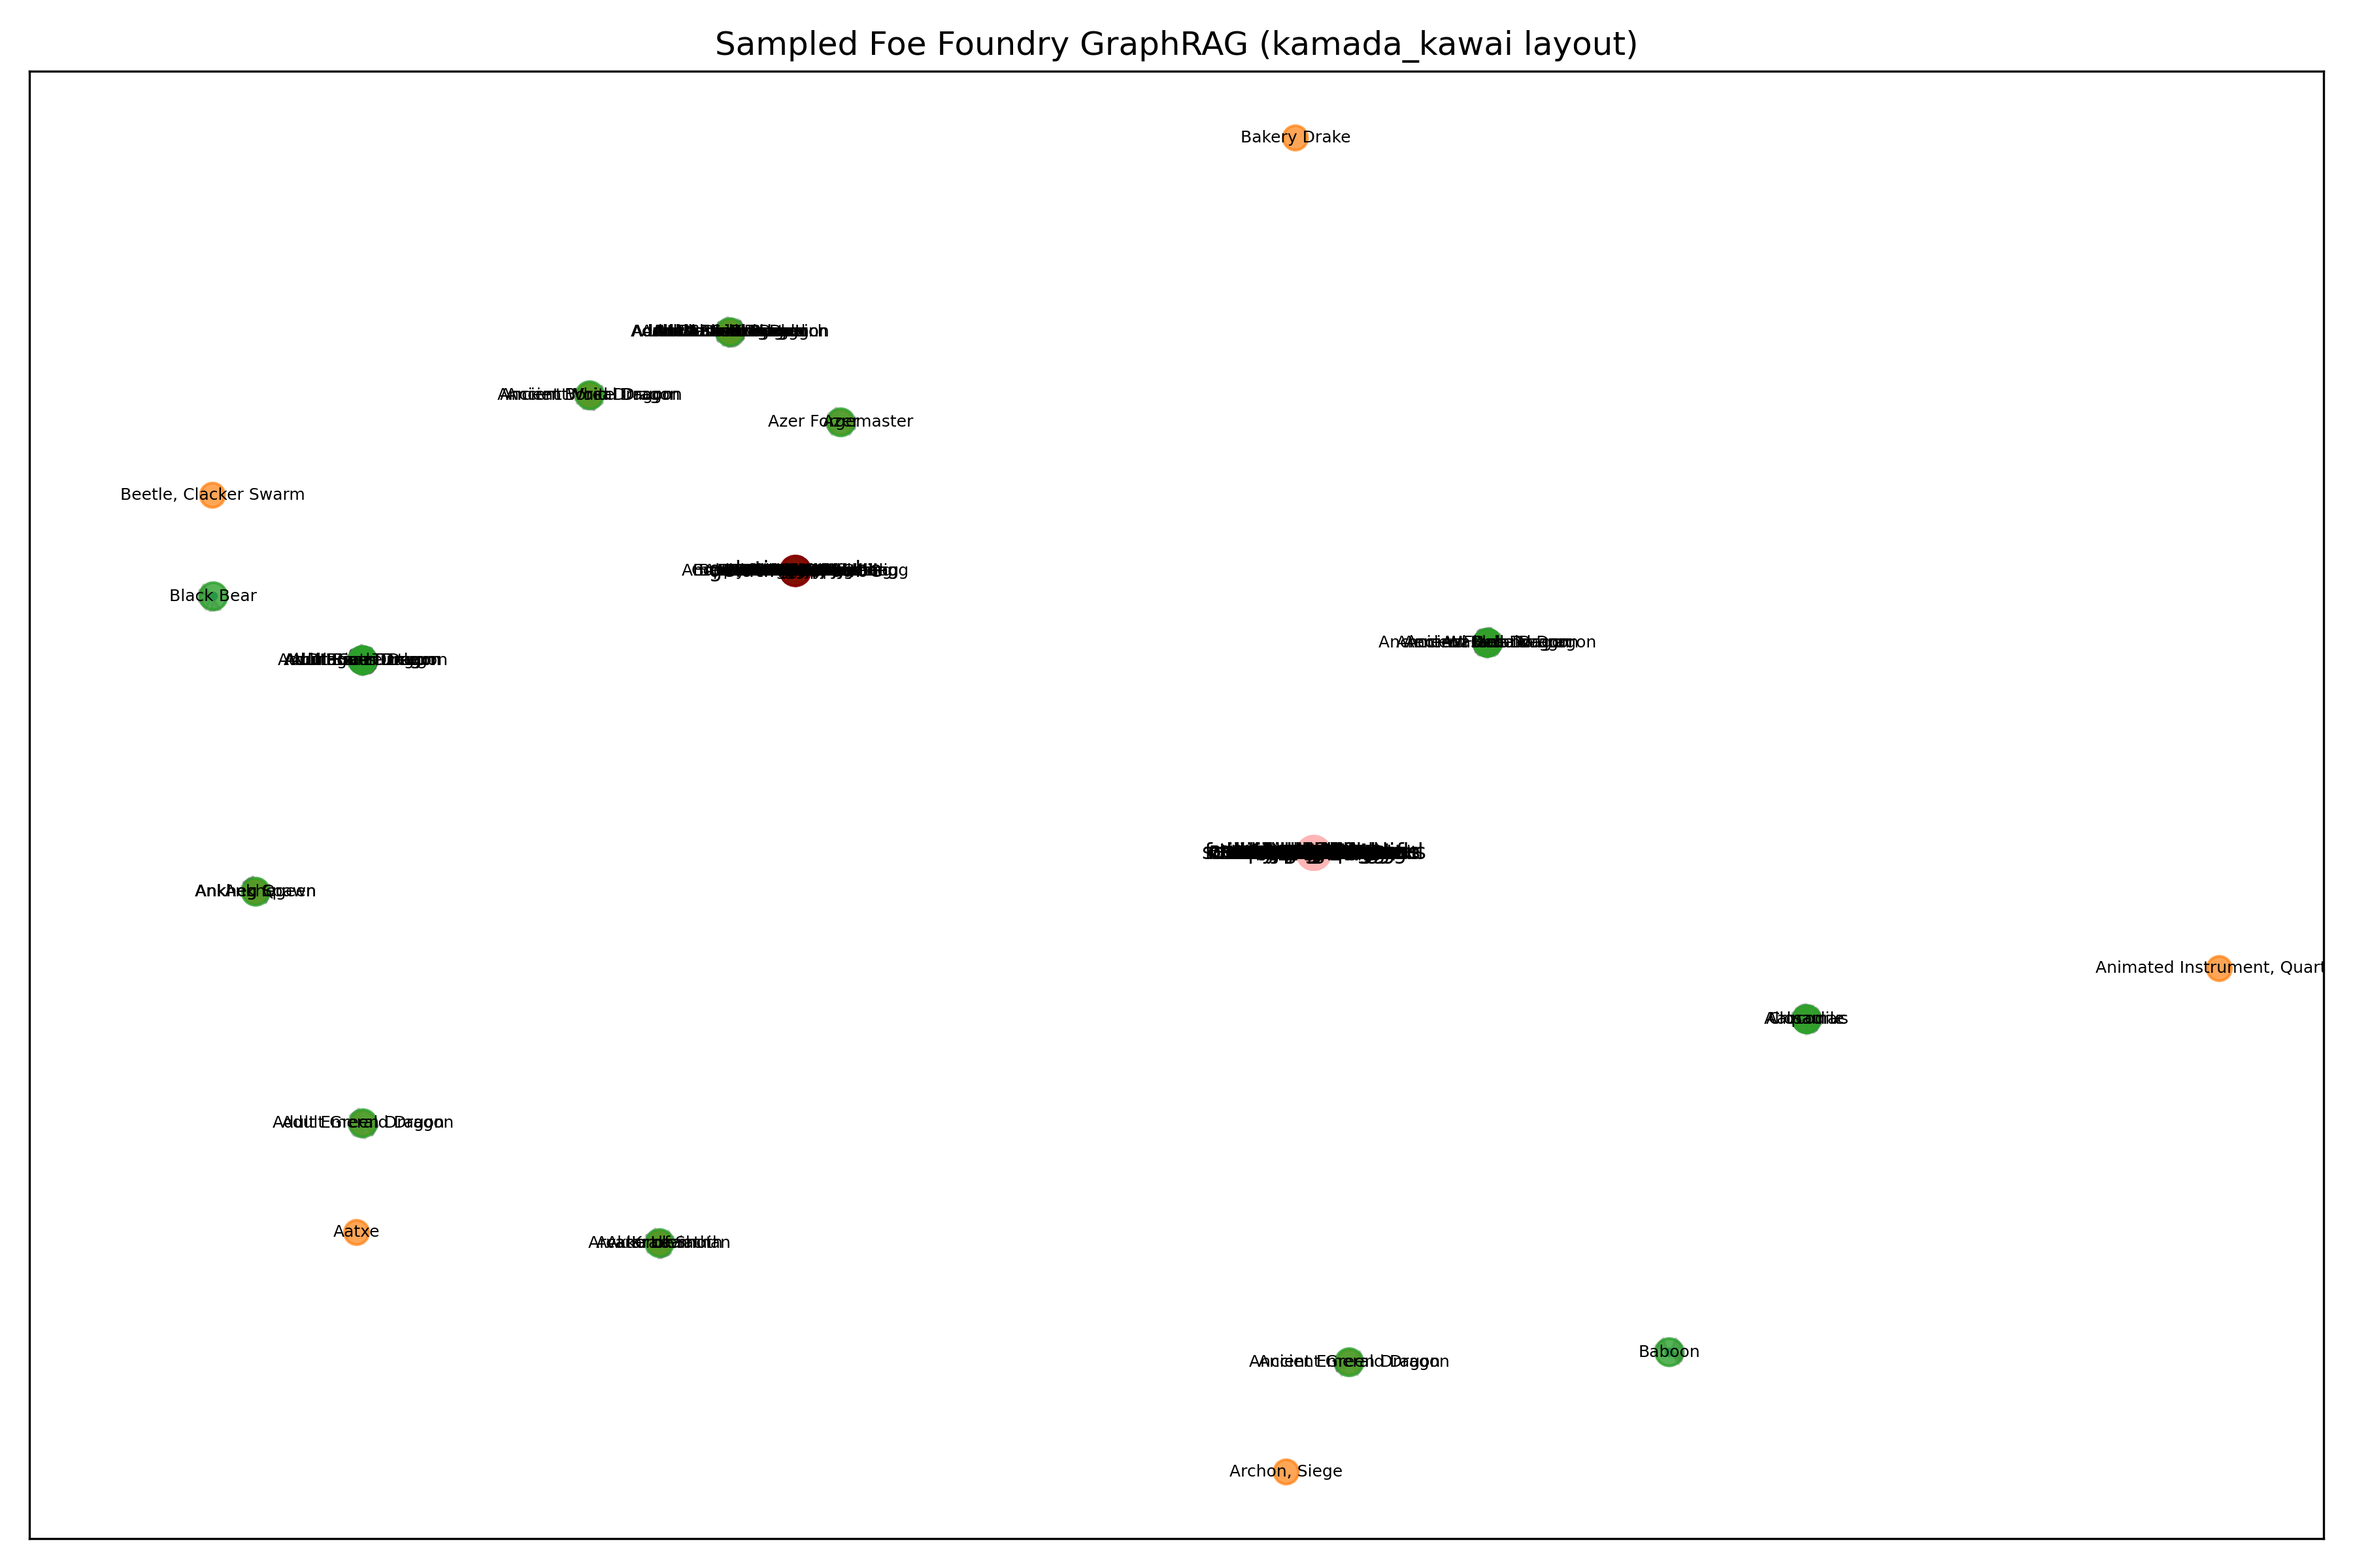
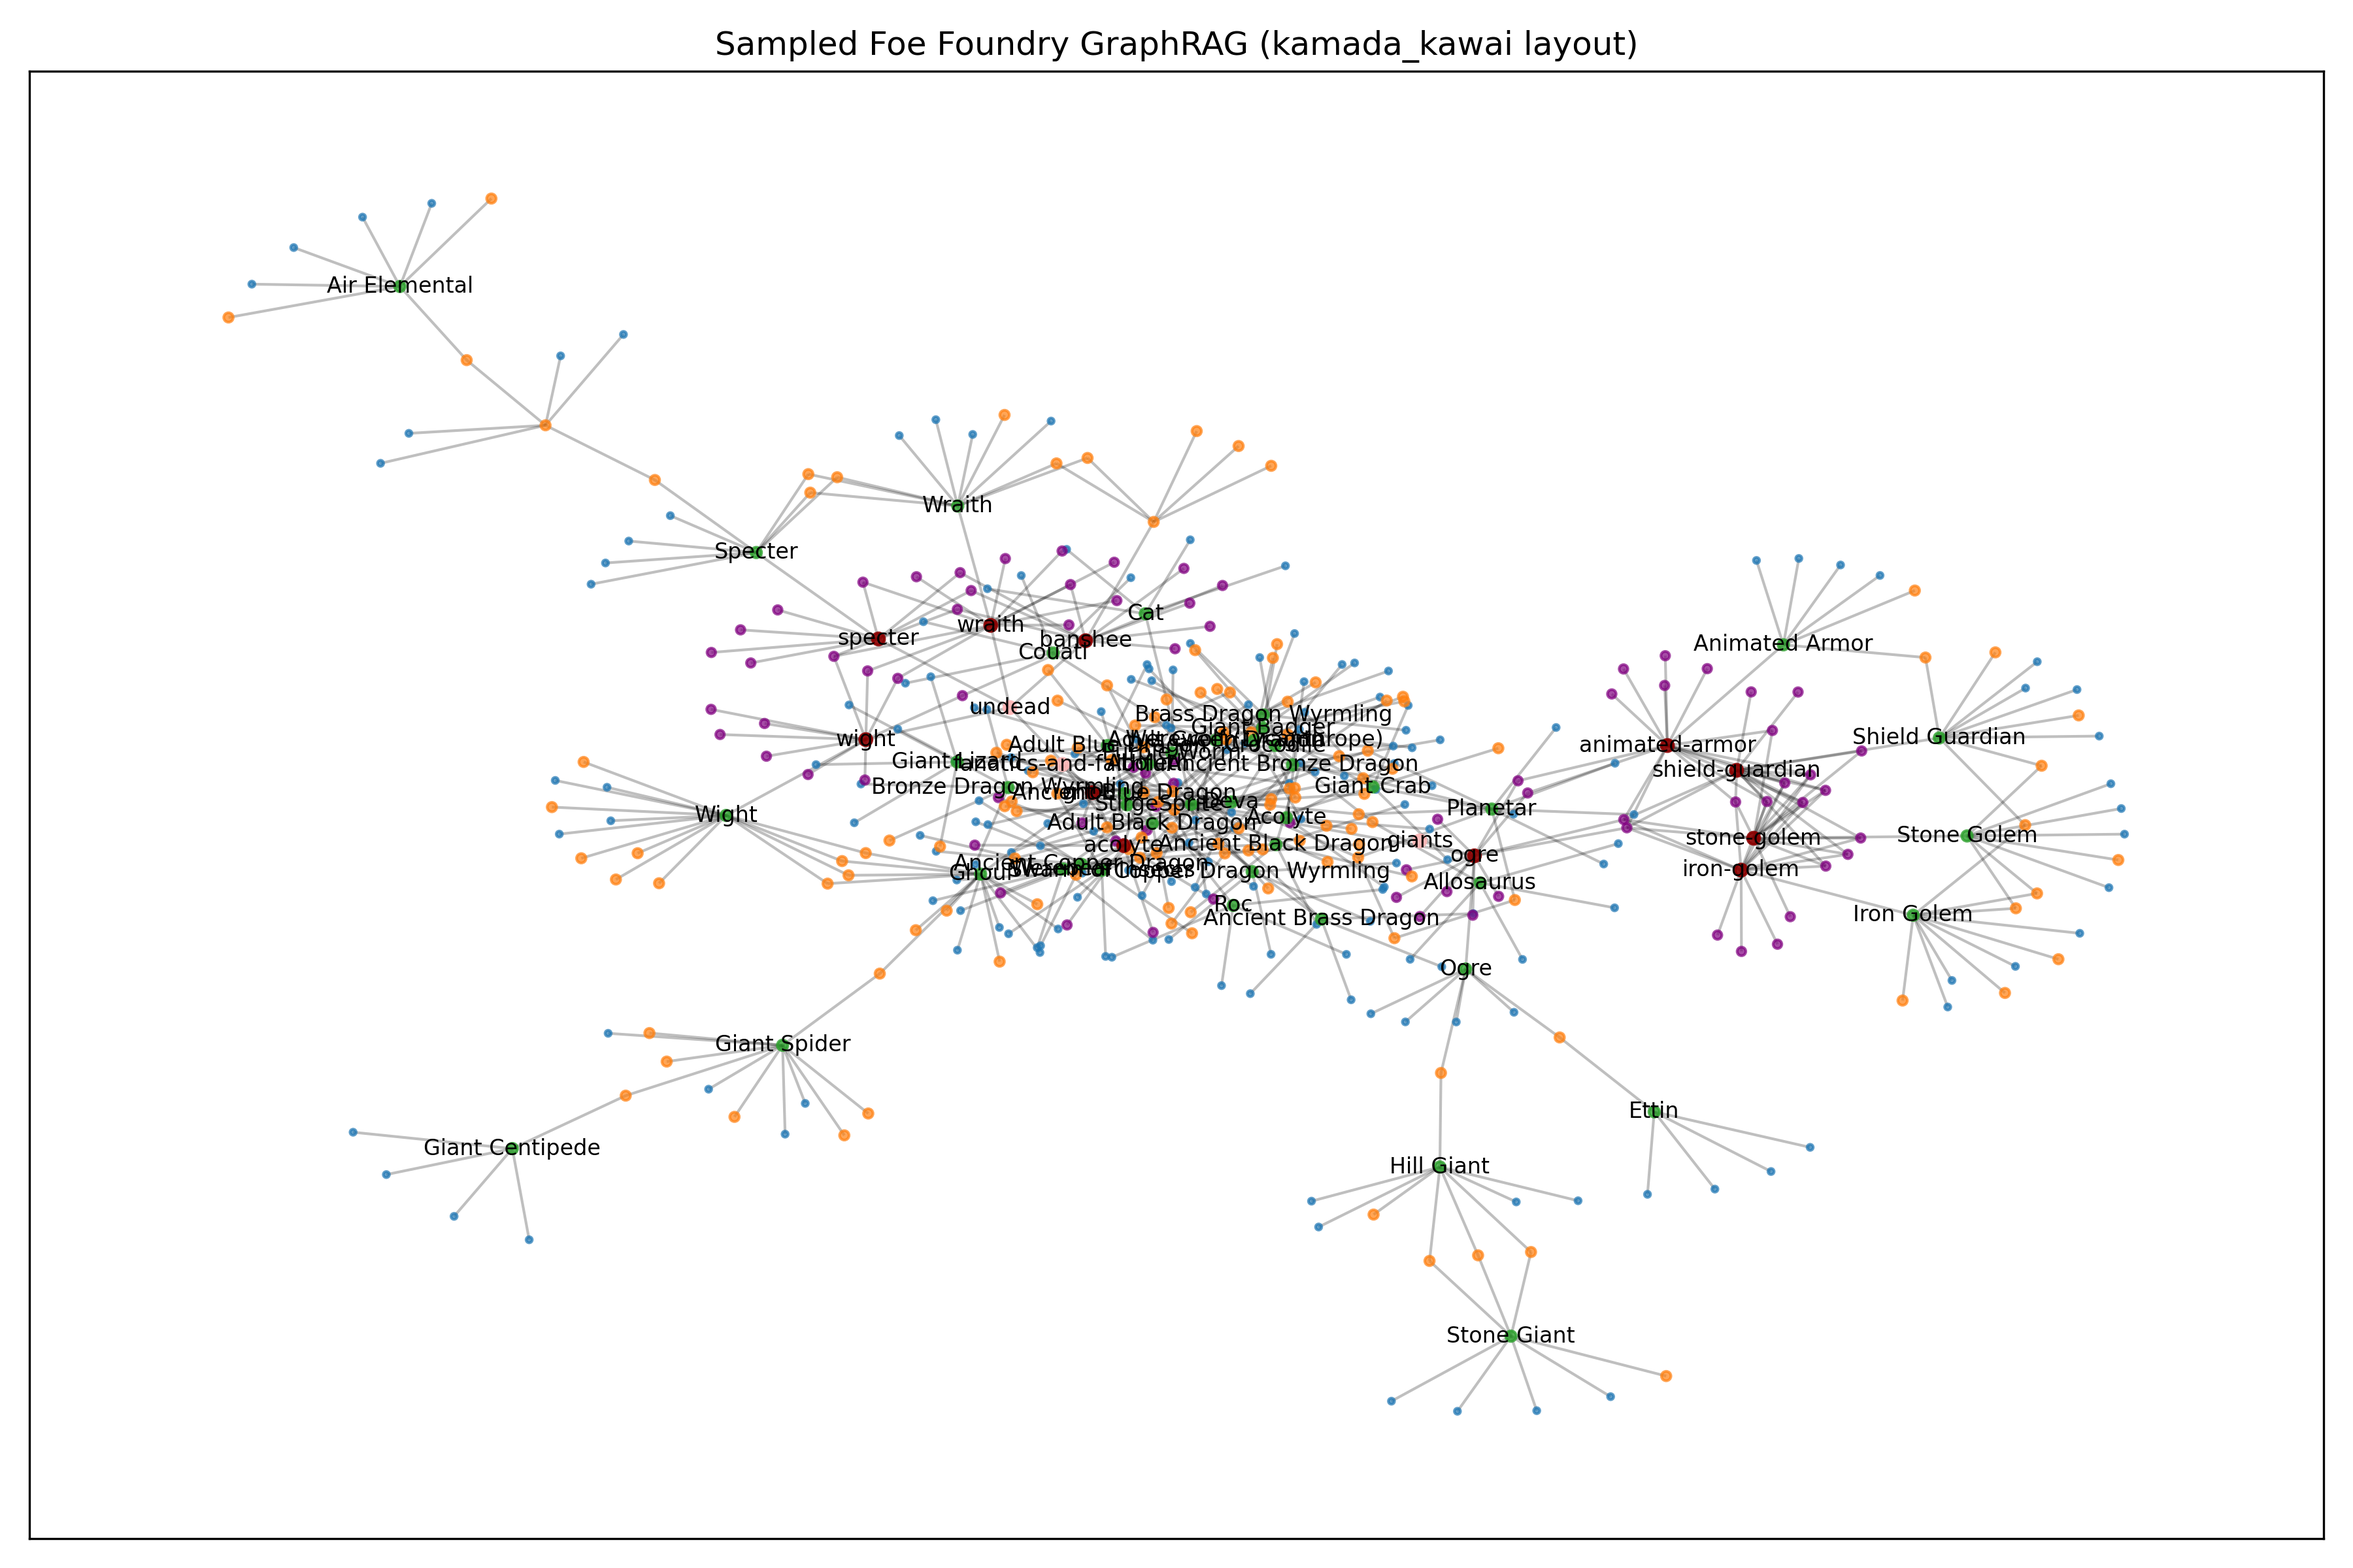
progress

diff --git a/foe_foundry_search/graph/visualize.py b/foe_foundry_search/graph/visualize.py
@@ -4,6 +4,7 @@ from enum import Enum
 
 import matplotlib.pyplot as plt
 import networkx as nx
+import numpy as np
 
 
 class LayoutType(Enum):
@@ -24,12 +25,25 @@ def _create_layout_positions(subgraph: nx.DiGraph, layout_type: LayoutType) -> d
     Returns:
         Dictionary mapping node IDs to (x, y) positions
     """
+    H = nx.Graph(subgraph)
+
     if layout_type == LayoutType.SPRING:
-        return nx.spring_layout(subgraph, seed=42, k=None)
+        return nx.spring_layout(H, seed=42, k=None, iterations=100)
 
     elif layout_type == LayoutType.KAMADA_KAWAI:
-        return nx.kamada_kawai_layout(subgraph)
-
+        seed_pos = nx.spring_layout(H, seed=42, k=None, iterations=100)
+        rand_pos = nx.random_layout(H, seed=42)
+        alpha = 0.8  # 0 = pure random, 1 = pure spring
+        blend_pos = {
+            n: alpha * np.array(seed_pos[n]) + (1 - alpha) * np.array(rand_pos[n])
+            for n in H.nodes()
+        }
+        return nx.kamada_kawai_layout(
+            nx.Graph(subgraph),
+            weight=None,  # type: ignore
+            scale=3.5,
+            pos=blend_pos,
+        )
     else:
         raise ValueError(f"Unsupported layout type: {layout_type}")
 
@@ -135,7 +149,6 @@ def visualize_graph_sampled(G, layout_type: LayoutType = LayoutType.SPRING):
     node_colors = {}
     node_sizes = {}
     labels = {}
-    mon_labels = {}
     for n in subgraph.nodes:
         node_type = subgraph.nodes[n]["type"]
         if node_type == "DOC":
@@ -144,12 +157,12 @@ def visualize_graph_sampled(G, layout_type: LayoutType = LayoutType.SPRING):
             # No label for DOC nodes
         elif node_type == "FF_MON":
             node_colors[n] = "#8B0000"  # dark red
-            node_sizes[n] = 120
+            node_sizes[n] = 20
             # Label is just the key, e.g. 'wolf' for 'FF_MON:wolf'
             labels[n] = n.split(":", 1)[-1]
         elif node_type == "FF_FAM":
             node_colors[n] = "#FFB6B6"  # light red
-            node_sizes[n] = 150
+            node_sizes[n] = 20
             labels[n] = subgraph.nodes[n].get("family_key", n)
         elif node_type == "POW":
             node_colors[n] = "#800080"  # purple
@@ -158,9 +171,9 @@ def visualize_graph_sampled(G, layout_type: LayoutType = LayoutType.SPRING):
         elif node_type == "MON":
             is_srd = subgraph.nodes[n].get("is_srd", False)
             node_colors[n] = "#2ca02c" if is_srd else "#ff7f0e"
-            node_sizes[n] = 100 if is_srd else 80
-            labels[n] = subgraph.nodes[n].get("name", n)
-            mon_labels[n] = labels[n]
+            node_sizes[n] = 15 if is_srd else 12
+            if is_srd:
+                labels[n] = subgraph.nodes[n].get("name", n)
         else:
             node_colors[n] = "#cccccc"
             node_sizes[n] = 10
@@ -225,26 +238,14 @@ def visualize_graph_sampled(G, layout_type: LayoutType = LayoutType.SPRING):
             )
 
     # Draw edges
-    nx.draw_networkx_edges(subgraph, pos, alpha=0.2)
+    nx.draw_networkx_edges(subgraph, pos, alpha=0.25, arrows=False)
 
-    # Draw labels for FF_FAM, FF_MON, MON nodes only
-    ff_fam_nodes = [n for n in labels if subgraph.nodes[n]["type"] == "FF_FAM"]
-    ff_mon_nodes = [n for n in labels if subgraph.nodes[n]["type"] == "FF_MON"]
-    mon_nodes = [n for n in labels if subgraph.nodes[n]["type"] == "MON"]
-
-    # FF_FAM and FF_MON labels (font size 8)
+    # Draw labels
     nx.draw_networkx_labels(
         subgraph,
         pos,
-        labels={n: labels[n] for n in ff_fam_nodes + ff_mon_nodes},
+        labels=labels,
         font_size=8,
-    )
-    # MON labels (smaller font size, e.g. 6)
-    nx.draw_networkx_labels(
-        subgraph,
-        pos,
-        labels={n: mon_labels[n] for n in mon_nodes},
-        font_size=6,
     )
 
     plt.title(f"Sampled Foe Foundry GraphRAG ({layout_type.value} layout)")
